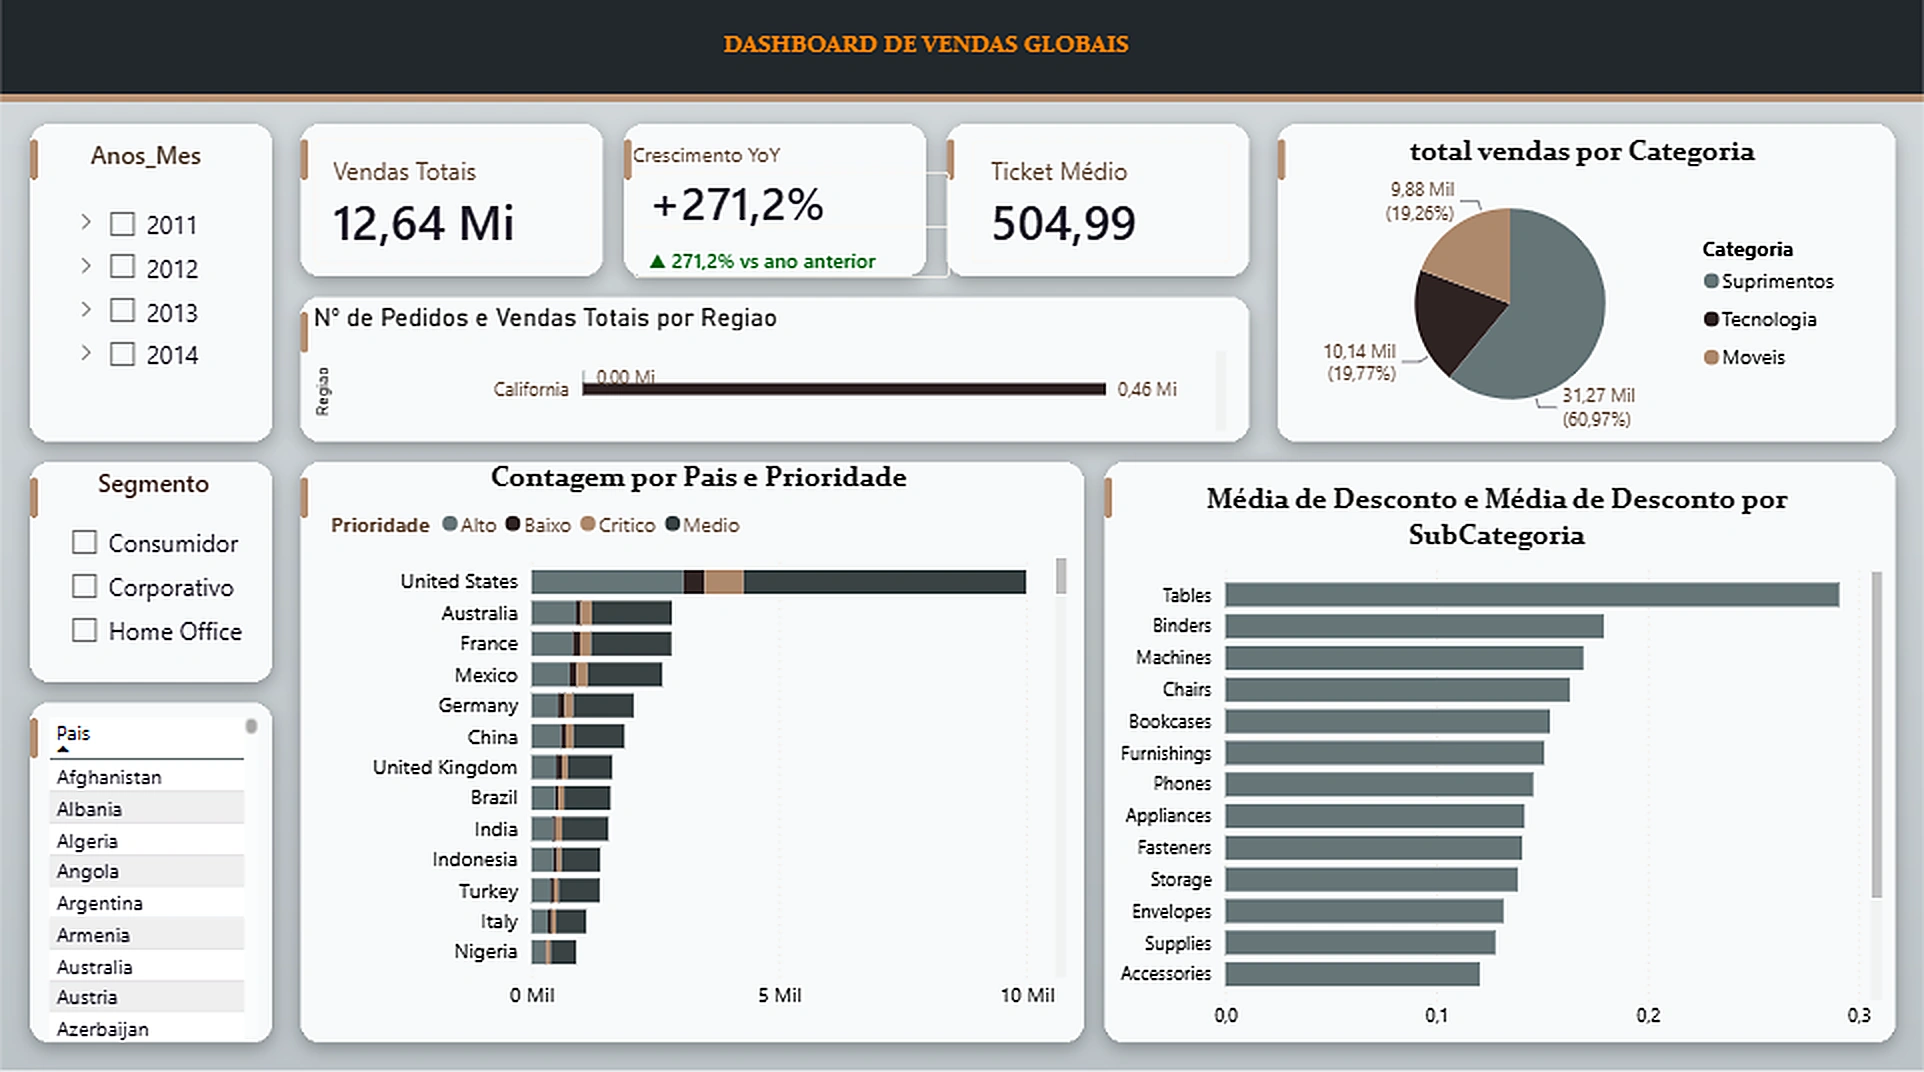
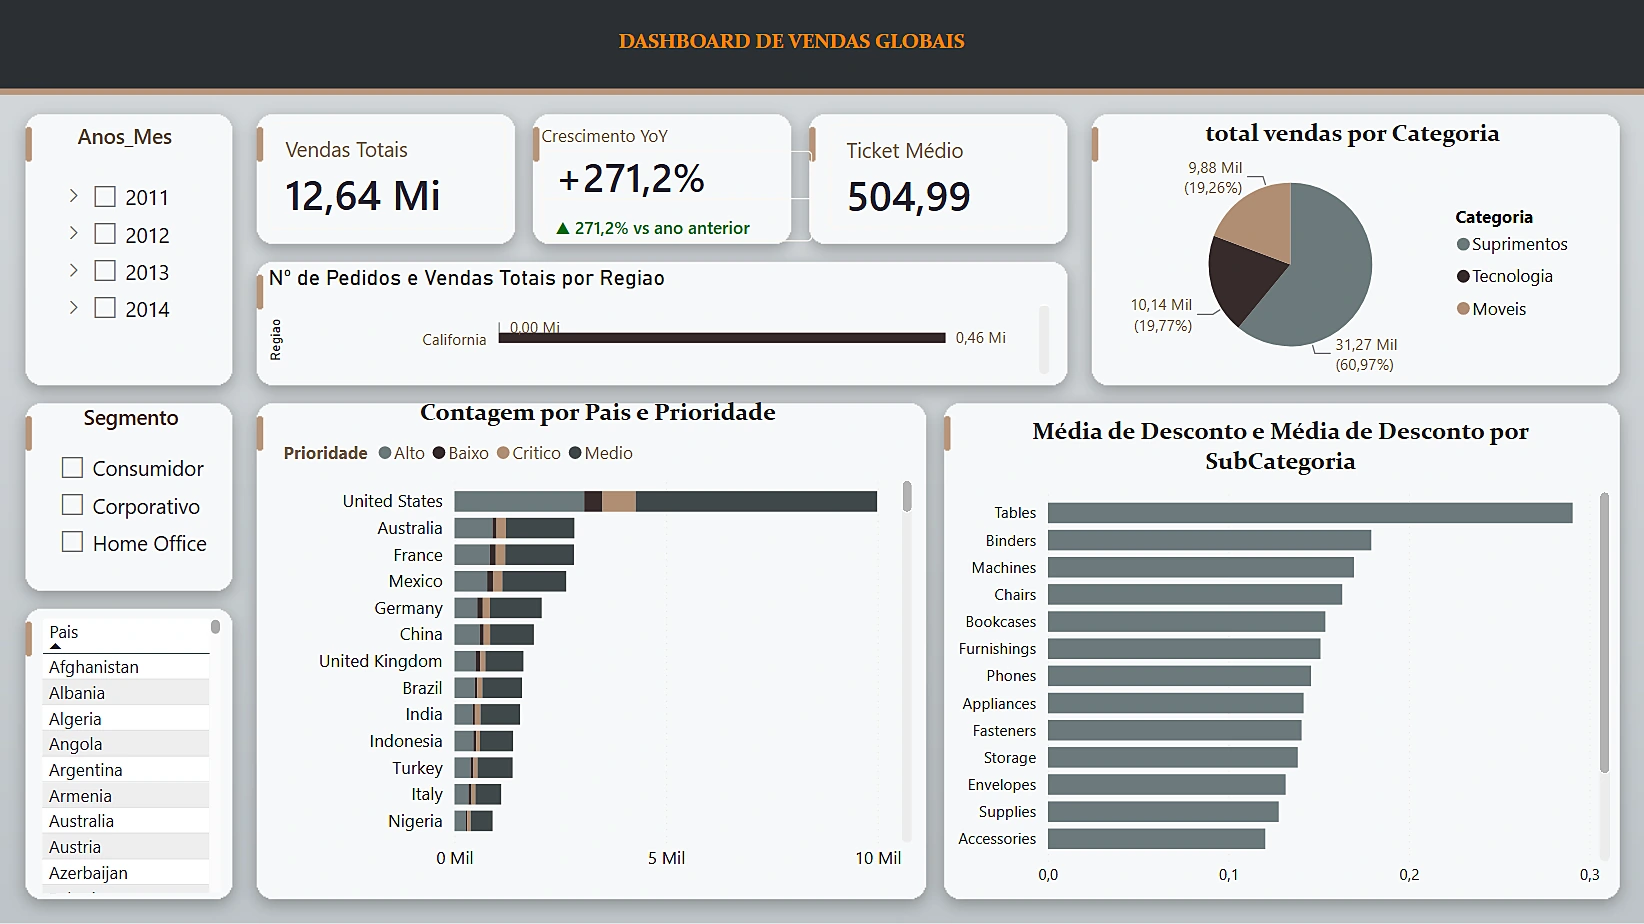
Adiciona Dashboard Comercial em destaque e melhora resolucao dos previews

diff --git a/index.html b/index.html
@@ -130,14 +130,13 @@
 
       <section class="col-right">
         <section>
-          <h2 class="projects-title">📁 Projetos <small>(5)</small></h2>
+          <h2 class="projects-title">📁 Projetos <small>(6)</small></h2>
           <div class="projects">
             <article class="project project-featured">
               <a class="project-media" href="https://app.powerbi.com/view?r=eyJrIjoiNjQzY2MxOGEtZTA5Ny00YTIxLWI5NzEtZmVhMTFhNjkyMTAyIiwidCI6ImMwNWY4NjQ5LWI5MjEtNDdkZi1hZjM0LTY4YTE4ZTc3MjU4NiJ9" target="_blank" rel="noopener noreferrer" aria-label="Abrir o dashboard de vendas globais">
                 <img src="assets/dashboard-vendas-hero.webp" alt="Dashboard de Vendas Globais no Power BI com KPIs de vendas totais, crescimento YoY, ticket médio, vendas por categoria, contagem por país e média de desconto por subcategoria" width="1924" height="1072" decoding="async" fetchpriority="high" />
               </a>
               <div class="project-body">
-                <span class="featured-tag">Projeto em destaque</span>
                 <h3>Dashboard de Vendas Globais</h3>
                 <p>Relatório interativo em Power BI para acompanhar o desempenho comercial global: vendas totais, crescimento ano a ano (YoY), ticket médio e pedidos por região. Inclui filtros dinâmicos por ano, segmento e país, além de visões por categoria de produto, prioridade de mercado e média de desconto por subcategoria.</p>
                 <ul class="project-tags">
@@ -148,6 +147,24 @@
                 </ul>
                 <div class="project-actions">
                   <a class="ghost primary" href="https://app.powerbi.com/view?r=eyJrIjoiNjQzY2MxOGEtZTA5Ny00YTIxLWI5NzEtZmVhMTFhNjkyMTAyIiwidCI6ImMwNWY4NjQ5LWI5MjEtNDdkZi1hZjM0LTY4YTE4ZTc3MjU4NiJ9" target="_blank" rel="noopener noreferrer">Ver dashboard ao vivo →</a>
+                </div>
+              </div>
+            </article>
+            <article class="project project-featured">
+              <a class="project-media" href="https://app.powerbi.com/view?r=eyJrIjoiNGE4ZjY3YmYtNzg1YS00MWExLWFiYzctZTFhNzgxOGYxMzI0IiwidCI6ImMwNWY4NjQ5LWI5MjEtNDdkZi1hZjM0LTY4YTE4ZTc3MjU4NiJ9" target="_blank" rel="noopener noreferrer" aria-label="Abrir o dashboard comercial de desempenho">
+                <img src="assets/dashboard-comercial.webp" alt="Dashboard de Vendas com receita total de 22 Mi, 5 mil vendas, ticket médio de 4 mil e 63 mil pedidos, além de gráfico de receita por produto e evolução mensal" width="1814" height="1020" decoding="async" />
+              </a>
+              <div class="project-body">
+                <h3>Dashboard Comercial — Desempenho de Vendas</h3>
+                <p>Painel executivo em Power BI com a visão geral do desempenho comercial: receita total, quantidade de vendas, ticket médio e total de pedidos, cada indicador com comparativo frente ao período anterior. Reúne a receita por produto em visão analítica, a evolução mês a mês do faturamento e filtros por categoria de mercado — Eletrônicos, Escritório, Móveis e Periféricos.</p>
+                <ul class="project-tags">
+                  <li>Power BI</li>
+                  <li>DAX</li>
+                  <li>KPIs</li>
+                  <li>Storytelling de Dados</li>
+                </ul>
+                <div class="project-actions">
+                  <a class="ghost primary" href="https://app.powerbi.com/view?r=eyJrIjoiNGE4ZjY3YmYtNzg1YS00MWExLWFiYzctZTFhNzgxOGYxMzI0IiwidCI6ImMwNWY4NjQ5LWI5MjEtNDdkZi1hZjM0LTY4YTE4ZTc3MjU4NiJ9" target="_blank" rel="noopener noreferrer">Ver dashboard ao vivo →</a>
                 </div>
               </div>
             </article>

diff --git a/styles.css b/styles.css
@@ -278,19 +278,6 @@ html, body {
 .project-featured h3 { font-size: 18px; margin-bottom: 8px; }
 .project-featured p { font-size: 14px; line-height: 1.6; }
 
-.featured-tag {
-  display: inline-block;
-  margin-bottom: 10px;
-  padding: 4px 10px;
-  border-radius: 999px;
-  background: rgba(78, 163, 255, 0.14);
-  color: var(--blue);
-  font-size: 10px;
-  font-weight: 700;
-  letter-spacing: 0.12em;
-  text-transform: uppercase;
-}
-
 .project-tags {
   display: flex;
   flex-wrap: wrap;
